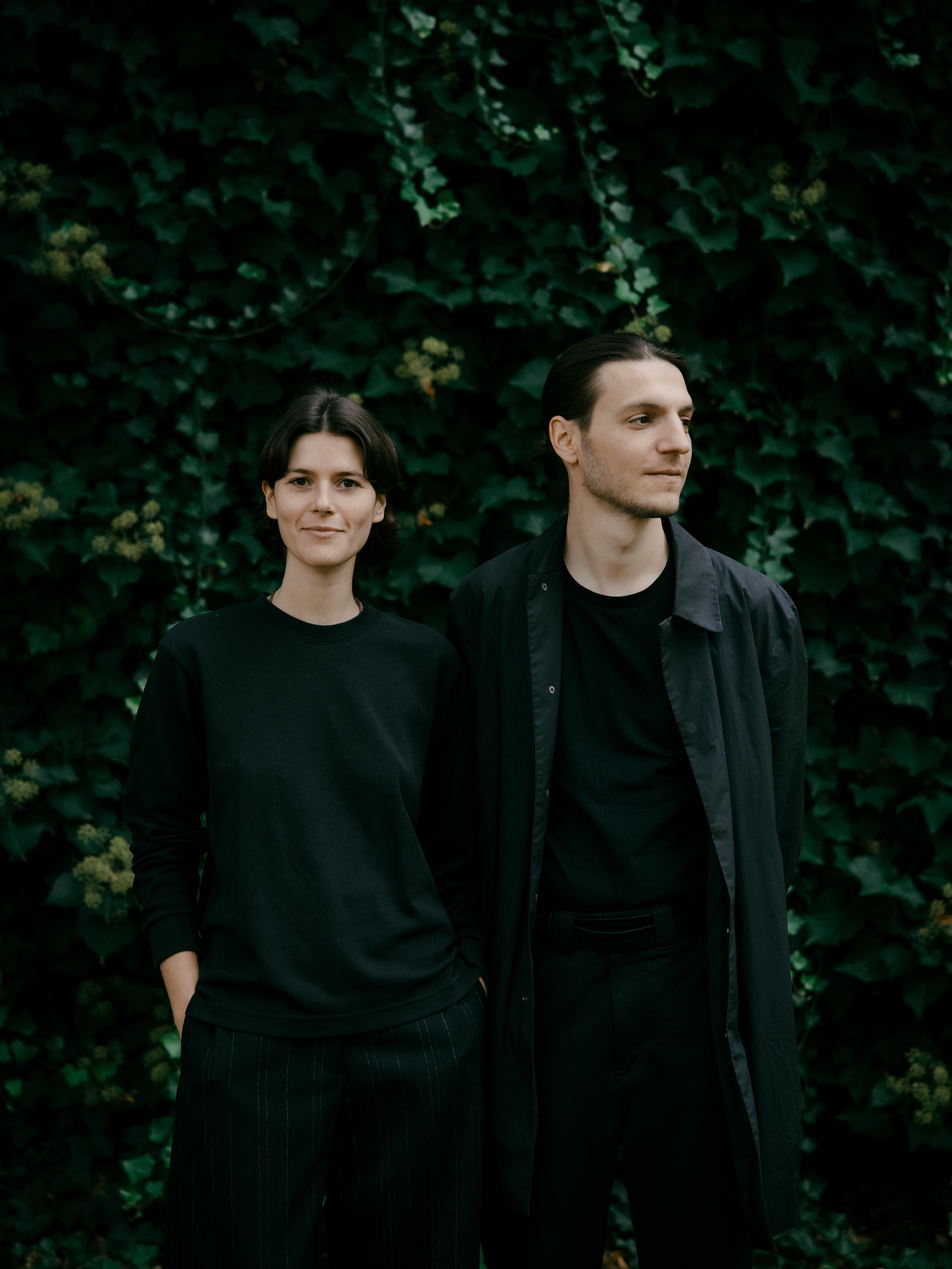
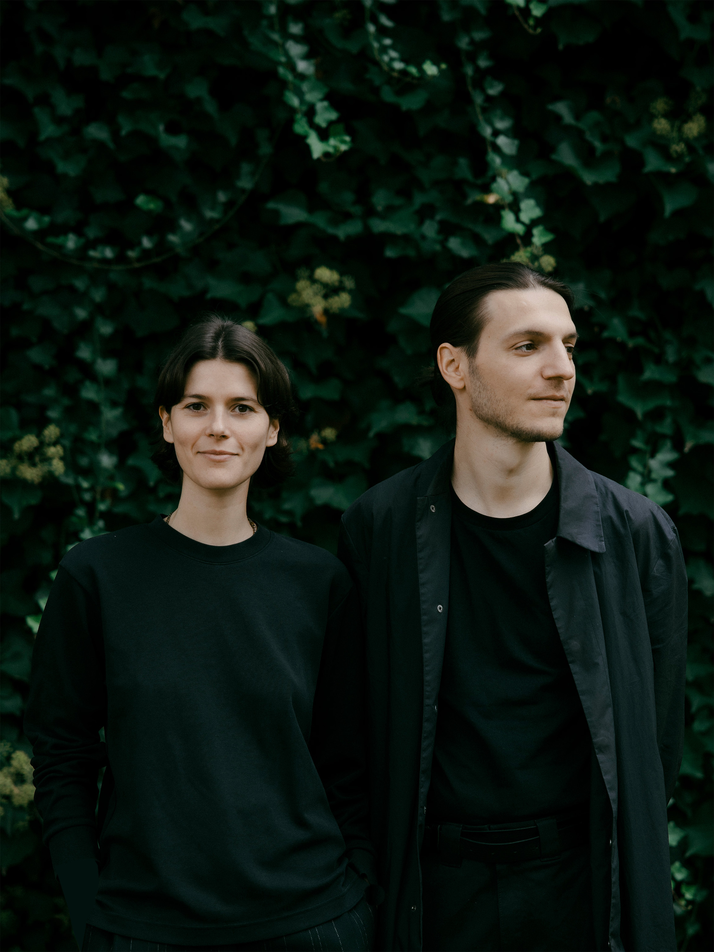
feat(AboutSection): Improve text size and team Foto

diff --git a/src/lib/components/AboutSection.svelte b/src/lib/components/AboutSection.svelte
@@ -15,54 +15,81 @@
 	<h2 class="font-headings font-bold text-balance">
 		{aboutPage.metadata.title}
 	</h2>
-	<figure class="group flex flex-col gap-2">
-		<enhanced:img
-			src={arohLeads}
-			alt="a-roh lead architects"
-			class="max-h-[50svh] w-full object-contain sm:aspect-square"
-		/>
-		<figcaption
-			class={cn(
-				'text-muted-foreground text-center text-xs tracking-tight opacity-50 transition-opacity',
-				'group-hover:opacity-100'
-			)}
-		>
-			© {aboutPage.metadata.photoCopyright}
-		</figcaption>
-	</figure>
+	<enhanced:img
+		src={arohLeads}
+		alt="a-roh lead architects"
+		class="max-h-[50svh] w-full object-contain sm:aspect-square"
+		sizes="160px"
+	/>
 	<div class="pt-8 sm:contents">
 		<div class="flex flex-col justify-between gap-6 lg:col-span-3">
 			<div
 				class={cn(
-					'[&>p]:text-pretty',
-					'[&>h1]:font-headings [&>h1]:mt-4 [&>h1]:font-bold [&>h1]:text-balance [&>h1]:first:mt-0',
-					'[&>h2]:font-headings [&>h2]:mt-4 [&>h2]:font-bold [&>h2]:text-balance [&>h2]:first:mt-0',
-					'[&>h3]:font-headings [&>h3]:mt-4 [&>h3]:font-bold [&>h3]:text-balance [&>h3]:first:mt-0',
-					'[&>h4]:font-headings [&>h4]:mt-4 [&>h4]:font-bold [&>h4]:text-balance [&>h4]:first:mt-0',
-					'flex flex-col gap-2'
+					'text-sm [&>p]:text-pretty',
+					'[&>h1]:font-headings [&>h1]:mt-4 [&>h1]:text-base [&>h1]:font-bold [&>h1]:text-balance [&>h1]:first:mt-0',
+					'[&>h2]:font-headings [&>h2]:mt-4 [&>h2]:text-base [&>h2]:font-bold [&>h2]:text-balance [&>h2]:first:mt-0',
+					'[&>h3]:font-headings [&>h3]:mt-4 [&>h3]:text-base [&>h3]:font-bold [&>h3]:text-balance [&>h3]:first:mt-0',
+					'[&>h4]:font-headings [&>h4]:mt-4 [&>h4]:text-base [&>h4]:font-bold [&>h4]:text-balance [&>h4]:first:mt-0',
+					'[&_a]:decoration-muted-foreground/25 [&_a]:hover:decoration-foreground [&_a]:underline',
+					'[&_a]:focus-visible:outline-foreground [&_a]:underline-offset-2 [&_a]:transition-colors',
+					'[&_li]:text-balance [&_ul]:flex [&_ul]:flex-col [&_ul]:gap-1',
+					'flex flex-col gap-2.5'
 				)}
 			>
 				<aboutPage.Content />
+
+				<p class="mt-2">©&thinsp;{new Date().getFullYear()} - a-roh - all rights reserved</p>
 			</div>
 		</div>
-		<div class="flex flex-col gap-6 pt-8 lg:col-span-2">
+		<div class="flex flex-col gap-5 pt-8 text-sm lg:col-span-2">
 			<ul>
 				{#each aboutPage.metadata.emails as email}
-					<li><a href="mailto:{email}">{email}</a></li>
+					<li>
+						<a
+							href="mailto:{email}"
+							itemprop="email"
+							class={cn(
+								'decoration-muted-foreground/25 hover:decoration-foreground underline underline-offset-2 transition-colors',
+								'focus-visible:outline-foreground focus-visible:decoration-foreground focus-visible:underline-offset-2'
+							)}
+						>
+							{email}
+						</a>
+					</li>
 				{/each}
 			</ul>
 			<ul>
 				{#each aboutPage.metadata.phones as phone}
-					<li><a href="tel:{phone}">{phone}</a></li>
+					<li>
+						<a
+							href="tel:{phone}"
+							itemprop="telephone"
+							class={cn(
+								'decoration-muted-foreground/25 hover:decoration-foreground underline underline-offset-2 transition-colors',
+								'focus-visible:outline-foreground focus-visible:decoration-foreground focus-visible:underline-offset-2'
+							)}
+						>
+							{phone}
+						</a>
+					</li>
 				{/each}
 			</ul>
 			<ul class="flex flex-col gap-6">
 				{#each aboutPage.metadata.addresses as address}
-					<li>
-						<strong class="font-headings">{address.label}</strong><br />
-						{address.line1}<br />
-						{address.line2}
-					</li>
+					<a
+						href={`https://www.google.com/maps/search/?api=1&query=${address.line1},${address.line2}`}
+						target="_blank"
+						rel="noopener noreferrer"
+						itemscope
+						itemtype="https://schema.org/PostalAddress"
+						class={cn(
+							'decoration-muted-foreground/25 hover:decoration-foreground underline underline-offset-2 transition-colors',
+							'focus-visible:outline-foreground focus-visible:decoration-foreground focus-visible:underline-offset-2'
+						)}
+					>
+						<span itemprop="streetAddress">{address.line1}</span><br />
+						<span itemprop="addressLocality">{address.line2}</span>
+					</a>
 				{/each}
 			</ul>
 			<ul>
@@ -70,7 +97,11 @@
 					<li>
 						<a
 							href={social.url}
-							class="decoration-muted-foreground hover:decoration-foreground underline underline-offset-2 transition-colors"
+							itemprop="sameAs"
+							class={cn(
+								'decoration-muted-foreground/25 hover:decoration-foreground underline underline-offset-2 transition-colors',
+								'focus-visible:outline-foreground focus-visible:decoration-foreground focus-visible:underline-offset-2'
+							)}
 						>
 							{social.label}
 						</a>
